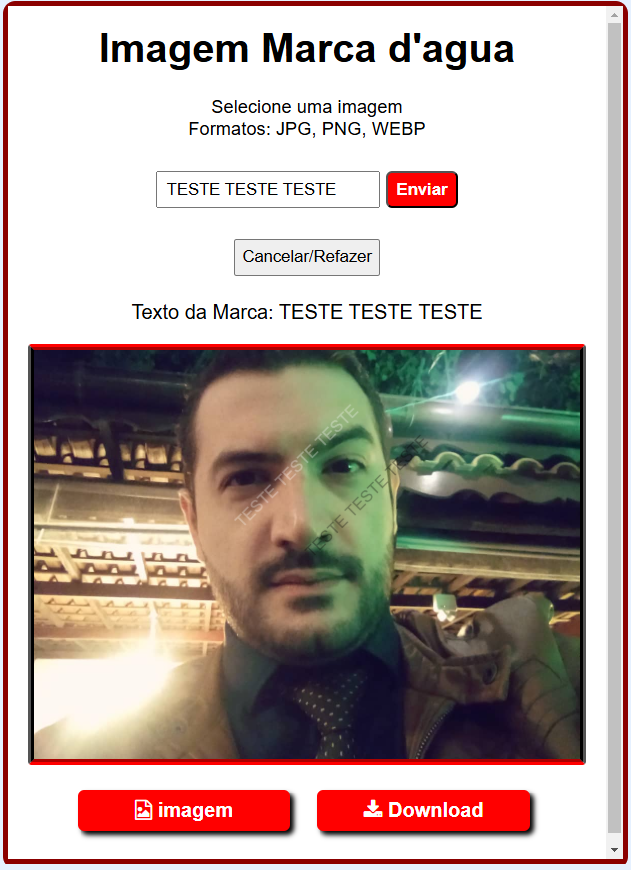
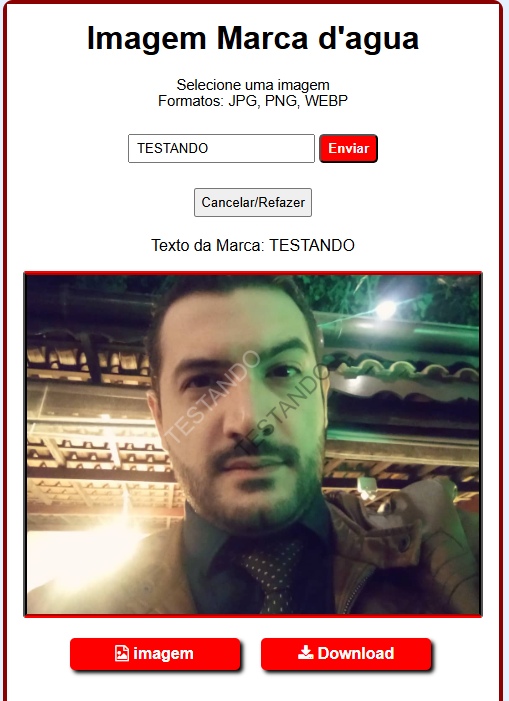
Change image preview

Changed region(s): [[0.0, 0.0, 1.0, 1.0], [0.1473, 0.03, 0.8251, 0.2397], [0.4126, 0.7789, 0.442, 0.8088]]

diff --git a/exemplo1/script.js b/exemplo1/script.js
@@ -83,7 +83,7 @@ fileInput.addEventListener('change', function(event) {
     context.drawImage(image, 0, 0);
 
     // adiciona texto e estilo a marca d'água
-    context.font = '2rem Arial';
+    context.font = '3.5rem Arial';
     context.fillStyle = 'rgba(255, 255, 255, 0.3)';
     // centralizando o texto
     context.translate(canvas.width / 2, canvas.height / 2.5);
